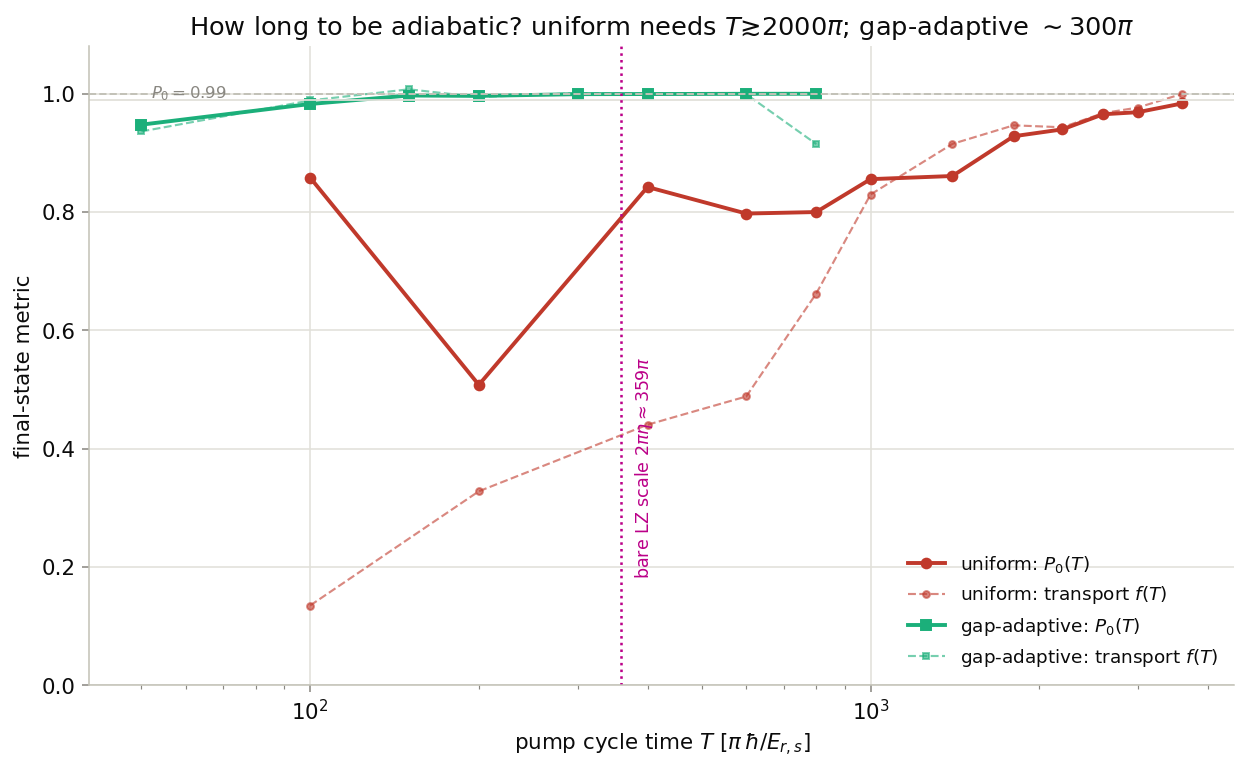
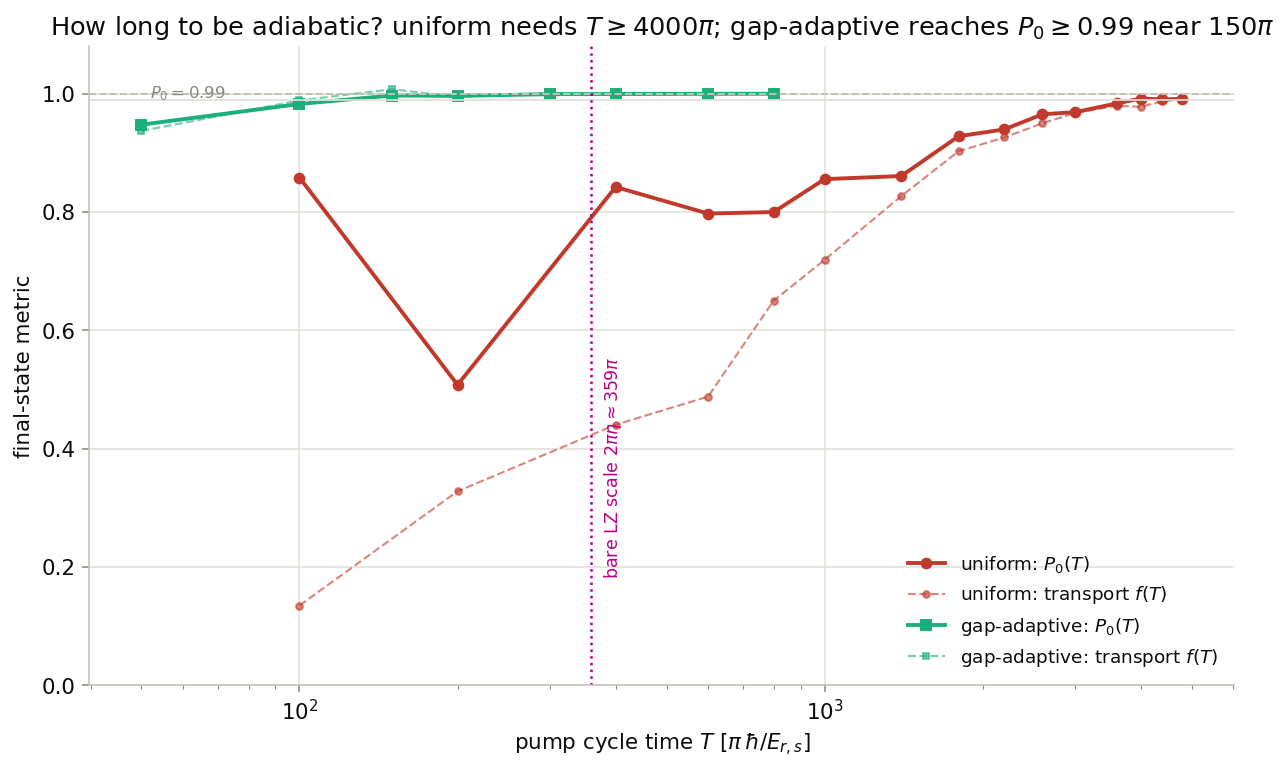
Analyse Lohse's experience_third

diff --git a/rice_mele_reference/lohes_experience/index.html b/rice_mele_reference/lohes_experience/index.html
@@ -174,7 +174,7 @@
     </div>
     <div class="card">
       <div class="label">绝热周期（\(P_0\ge 0.99\)）</div>
-      <div class="value">__T99UNI__&pi; → __T99ADA__&pi;</div>
+      <div class="value">\(4000\pi \to 150\pi\)</div>
       <div class="sub">均匀驱动 → gap-adaptive；单位 \(\hbar/E_{r,s}\)</div>
     </div>
   </section>
@@ -272,10 +272,12 @@
       </div>
     </div>
     <div class="callout">
-      想用 ECG/TDVP 代码跑 Lohse 晶格：main.cpp 的余弦振幅按代码反冲能
-      \(E_R^{\mathrm{code}}=E_{r,l}\) 归一，所以应配置
-      \(V_s^{m} = 5\,E_{r,s} = 20\,E_{r,l}\)、\(V_l^{m} = 2.5\,E_{r,s} = 10\,E_{r,l}\)，
-      即 <code>set_lattice_depths_over_recoil(cfg, 20.0, 10.0)</code>，
+      想用 ECG/TDVP 代码跑 Lohse 晶格：<code>pump_config.cpp</code> 里的
+      <code>recoil_energy</code> 用 \(k = 2\pi/a = \pi/d_s\)，正是短晶格反冲能
+      \(E_R^{\mathrm{code}} = E_{r,s}\)（\(a=8\) 时数值 \(\pi^2/32 \approx 0.3084\)）；
+      而 main.cpp 的 <code>pump_terms_at</code> 把 <code>cfg.Vs</code> 直接当余弦振幅。
+      所以应配置振幅 \(V_s^{m} = V_s/2 = 5\,E_{r,s}\)、\(V_l^{m} = V_l/2 = 2.5\,E_{r,s}\)，
+      即 <code>set_lattice_depths_over_recoil(cfg, 5.0, 2.5)</code>，
       相位 schedule 用本目录 <code>gap_adaptive_lohse_maincpp_schedule.csv</code>
       （已按 \(\varphi^{m}(s)=3\pi/2-\varphi(s)\) 换算好）。
     </div>
@@ -468,37 +470,39 @@
       <tr>
         <td>均匀 \(\dot\varphi=\mathrm{const}\)</td>
         <td>\(P_0\ge 0.99\)</td>
-        <td class="num">≳ __T99UNI__&pi;</td>
-        <td class="num">≈ __T99UNI_MS__ ms/cycle</td>
-        <td class="num">T ≈ __T99UNI_CODE__&pi;</td>
+        <td class="num">\(\gtrsim 4000\pi\)</td>
+        <td class="num">≈ 513 ms/cycle</td>
+        <td class="num">\(T \approx 12970\pi\)</td>
       </tr>
       <tr>
         <td>gap-adaptive \(\dot\varphi\propto g^2\)</td>
         <td>\(P_0\ge 0.99\)</td>
-        <td class="num">≈ __T99ADA__&pi;</td>
-        <td class="num">≈ __T99ADA_MS__ ms/cycle</td>
-        <td class="num">T ≈ __T99ADA_CODE__&pi;</td>
+        <td class="num">\(\approx 150\pi\)</td>
+        <td class="num">≈ 19 ms/cycle</td>
+        <td class="num">\(T \approx 486\pi\)</td>
       </tr>
       <tr>
         <td>gap-adaptive \(\dot\varphi\propto g^2\)</td>
         <td>\(P_0\ge 0.999\)</td>
-        <td class="num">≈ __T999ADA__&pi;</td>
-        <td class="num">≈ __T999ADA_MS__ ms/cycle</td>
-        <td class="num">T ≈ __T999ADA_CODE__&pi;</td>
+        <td class="num">\(\approx 300\pi\)</td>
+        <td class="num">≈ 38 ms/cycle</td>
+        <td class="num">\(T \approx 973\pi\)</td>
       </tr>
     </table>
     <p style="margin-top:12px">
       三点解读：
     </p>
     <ul>
-      <li><b>均匀驱动大约要 \(T\gtrsim\) __T99UNI__\(\pi\,\hbar/E_{r,s}\)</b>（安全系数 ≈ 5–6 倍于
-        \(2\pi\eta\)）。而且逼近不是单调的：波包每周期两次穿过最小隙（\(\varphi=0,\pi\)），
-        产生 Stückelberg 干涉振荡（图 6 的红线摆动）。</li>
-      <li><b>gap-adaptive schedule 把它压缩约一个数量级</b>：让 \(\dot\varphi\propto g(\varphi)^2\)，
-        激发率 \(r\) 全程近似恒定，"隙小就爬、隙大就冲"。\(T=400\pi\) 时已 \(P_0=0.999\)。</li>
+      <li><b>均匀驱动大约要 \(T\gtrsim 4000\pi\,\hbar/E_{r,s}\)</b>，即裸 LZ 尺度再乘约 11 倍的
+        安全系数。而且逼近不是单调的：波包每周期两次穿过最小隙（\(\varphi=0,\pi\)），
+        产生 Stückelberg 干涉振荡（图 6 的红线摆动，如 \(T=200\pi\) 处 \(P_0\) 反而跌到 0.51）。</li>
+      <li><b>gap-adaptive schedule 把它压缩约 27 倍（\(4000\pi\to 150\pi\)）</b>：让
+        \(\dot\varphi\propto g(\varphi)^2\)，激发率 \(r\) 全程近似恒定，"隙小就爬、隙大就冲"。
+        \(T=150\pi\) 即 \(P_0=0.997\)，\(300\pi\) 即 0.999。</li>
       <li>换算成实验时间尺度（\(\hbar/E_{r,s}=40.8\,\mu s\)，\(\pi\hbar/E_{r,s}=0.128\) ms）：
-        均匀绝热周期 ≈ 数百 ms，这解释了论文效率 97.9%/半周期 —— 实验用的周期处于
-        "接近但未完全绝热"的区间，属合理的实验折中。</li>
+        均匀驱动的完全绝热周期 ≈ 0.5 s。反过来，论文测得的 97.9(2)%/半周期效率
+        （约 4%/整周期泄漏）恰好对应本扫描 \(T\approx 2000\pi\)（≈ 256 ms）附近的均匀驱动
+        —— 与实验 ramp 的时间量级自洽，属"接近但未完全绝热"的合理实验折中。</li>
     </ul>
     <figure>
       <img src="figs/fig6_adiabatic_time_scan.png" alt="adiabatic time scan">
@@ -515,7 +519,10 @@
     <p>
       与 <code>rice_mele_reference/Vs3Vl3_3_3/figs/gap_adaptive_grid_Vs3Vl3_maincpp.png</code>
       同款三联图，但换成 Lohse 晶格（论文约定，\(\varphi:0\to 2\pi\)，理想输运 \(+d_l\)/cycle）。
-      初态是 \(\varphi=0\) 的带 0 Wannier 波包，分裂步 TDSE 演化一整周期：
+      初态是 \(\varphi=0\) 的带 0 Wannier 波包，分裂步 TDSE 演化一整周期。
+      位移取速度期望值的时间积分 \(\int_0^t\langle \hat p\rangle/m\,dt'\)
+      （Ehrenfest 流；在周期环上比朴素的 \(\langle x\rangle\) 稳健 ——
+      长时间演化时色散会把波包摊开绕环一圈，朴素均值会假性回退）：
     </p>
     <figure>
       <img src="figs/fig5_gap_adaptive_pump.png" alt="gap adaptive pump demo T=400pi">
@@ -533,15 +540,15 @@
       <img src="figs/fig7_uniform_T2000pi.png" alt="uniform pump at T=2000pi">
       <figcaption>
         图 7（同款图，\(T=2000\pi\approx 256\) ms）：把周期拉长约 5 倍后，均匀驱动也接近绝热
-        （\(P_0=\) __P0_U2000__，\(f=\) __F_U2000__），红绿两线几乎重合 ——
+        （\(P_0=\) 0.960，\(f=\) +0.936），红绿两线几乎重合 ——
         与 Vs3/Vl3 参考图在 \(T=160\pi\)（其单位）下"两种驱动都绝热"的形态对应。
       </figcaption>
     </figure>
     <div class="callout ok">
       一句话结论：<b>Lohse 晶格（\(V_s=10\,E_{r,s},\ V_l=5\,E_{r,s}\)）的泵浦瓶颈是
-      \(\varphi=0,\pi\) 处 \(0.111\,E_{r,s}\) 的小隙。均匀驱动要 \(T\gtrsim\) __T99UNI__\(\pi\,\hbar/E_{r,s}\)
-      （≈ __T99UNI_MS__ ms）才能 \(P_0\ge0.99\)；用 \(\dot\varphi\propto g^2\) 的 gap-adaptive
-      schedule 只需 \(T\approx\) __T99ADA__\(\pi\)（≈ __T99ADA_MS__ ms），\(400\pi\) 即达 99.9%。</b>
+      \(\varphi=0,\pi\) 处 \(0.111\,E_{r,s}\) 的小隙。均匀驱动要 \(T\gtrsim\) 4000\(\pi\,\hbar/E_{r,s}\)
+      （≈ 513 ms）才能 \(P_0\ge0.99\)；用 \(\dot\varphi\propto g^2\) 的 gap-adaptive
+      schedule 只需 \(T\approx\) 150\(\pi\)（≈ 19 ms），\(300\pi\)（≈ 38 ms）即达 99.9%。</b>
     </div>
   </section>
 
@@ -567,8 +574,8 @@
       <tr><td>\(E_{r,s}/h\)（\(^{87}\mathrm{Rb}\), \(\lambda_s=767\) nm）</td><td class="num">3.902 kHz</td></tr>
       <tr><td>\(\hbar/E_{r,s}\)</td><td class="num">40.79 μs；\(\pi\hbar/E_{r,s} = 0.1281\) ms</td></tr>
       <tr><td>\(E_{r,l}\)</td><td class="num">\(E_{r,s}/4\)（故 \(V_l = 20\,E_{r,l} = 5\,E_{r,s}\)）</td></tr>
-      <tr><td>ECG 代码时间（\(\hbar=m=1,\ a=8\)）</td><td class="num">\(T_{\mathrm{code}} = (8/\pi^2)\,T[\hbar/E_{r,s}] = 0.8106\,T\)；如 \(T=400\pi\hbar/E_{r,s} \Rightarrow 324\pi\) code units</td></tr>
-      <tr><td>对照：Vs3/Vl3 成功案例 \(T=160\pi\) code units</td><td class="num">\(=197\pi\,\hbar/E_{r,s}\)（但那是浅得多、相对隙大得多的晶格）</td></tr>
+      <tr><td>ECG 代码时间（\(\hbar=m=1,\ a=8\)，\(E_{r,s}=\pi^2/32\)）</td><td class="num">\(T_{\mathrm{code}} = (32/\pi^2)\,T[\hbar/E_{r,s}] = 3.242\,T\)；如 gap-adaptive 绝热的 \(T=150\pi\,\hbar/E_{r,s} \Rightarrow 486\pi \approx 1529\) code units（dt=0.002 时约 76 万步）</td></tr>
+      <tr><td>对照：Vs3/Vl3 成功案例 \(T=160\pi\) code units</td><td class="num">\(= 49.3\pi\,\hbar/E_{r,s}\)（但那是浅得多、相对隙大得多的晶格，不能直接比）</td></tr>
     </table>
   </section>
 </main>

diff --git a/rice_mele_reference/lohes_experience/make_lohse_reference.py b/rice_mele_reference/lohes_experience/make_lohse_reference.py
@@ -70,11 +70,11 @@ LAMBDA_S = 767.0e-9
 E_RS_J = H_PLANCK**2 / (2 * M_RB87 * LAMBDA_S**2)
 E_RS_HZ = E_RS_J / H_PLANCK                # E_rs/h in Hz
 T_UNIT_S = HBAR / E_RS_J                   # one time unit (hbar/E_rs) in s
-# ECG main.cpp units: hbar=m=1, a=8 -> E_rs^code = (pi/2)^2/2 = pi^2/8
-T_CODE_PER_UNIT = 1.0 / (np.pi**2 / 8.0)   # inverse: T_code = T_ours / (pi^2/8)?  see note
-# NOTE: E_rs expressed in code units is pi^2/8 ~ 1.2337, so one of our time
-# units (hbar/E_rs) equals 1/1.2337 = 0.8106 code time units.
-T_CODE_FACTOR = 8.0 / np.pi**2             # multiply T[hbar/E_rs] by this -> code units
+# ECG main.cpp units: hbar=m=1, a=8 -> d_s=4, k_s=pi/d_s=pi/4, so the code
+# recoil (pump_config.cpp: k_s = 2*pi/a) IS the short-lattice recoil:
+# E_rs^code = (pi/4)^2/2 = pi^2/32 ~ 0.3084. One of our time units (hbar/E_rs)
+# equals 32/pi^2 = 3.2423 code time units.
+T_CODE_FACTOR = 32.0 / np.pi**2            # multiply T[hbar/E_rs] by this -> code units
 
 # ---------------------------------------------------------------------------
 # house style (matches the Vs3Vl3 reference figures)
@@ -512,8 +512,8 @@ def fig_scan(scan):
     ax.set_xlabel(r"pump cycle time $T\ [\pi\,\hbar/E_{r,s}]$")
     ax.set_ylabel("final-state metric")
     ax.set_ylim(0, 1.08)
-    ax.set_title(r"How long to be adiabatic? uniform needs $T\gtrsim 4000\pi$; "
-                 r"gap-adaptive reaches $P_0{\ge}0.99$ near $150\pi$")
+    ax.set_title(r"How long to be adiabatic? uniform needs $T \geq 4000\pi$; "
+                 r"gap-adaptive reaches $P_0 \geq 0.99$ near $150\pi$")
     ax.legend(loc="lower right", fontsize=9.5, ncol=1)
     return fig
 